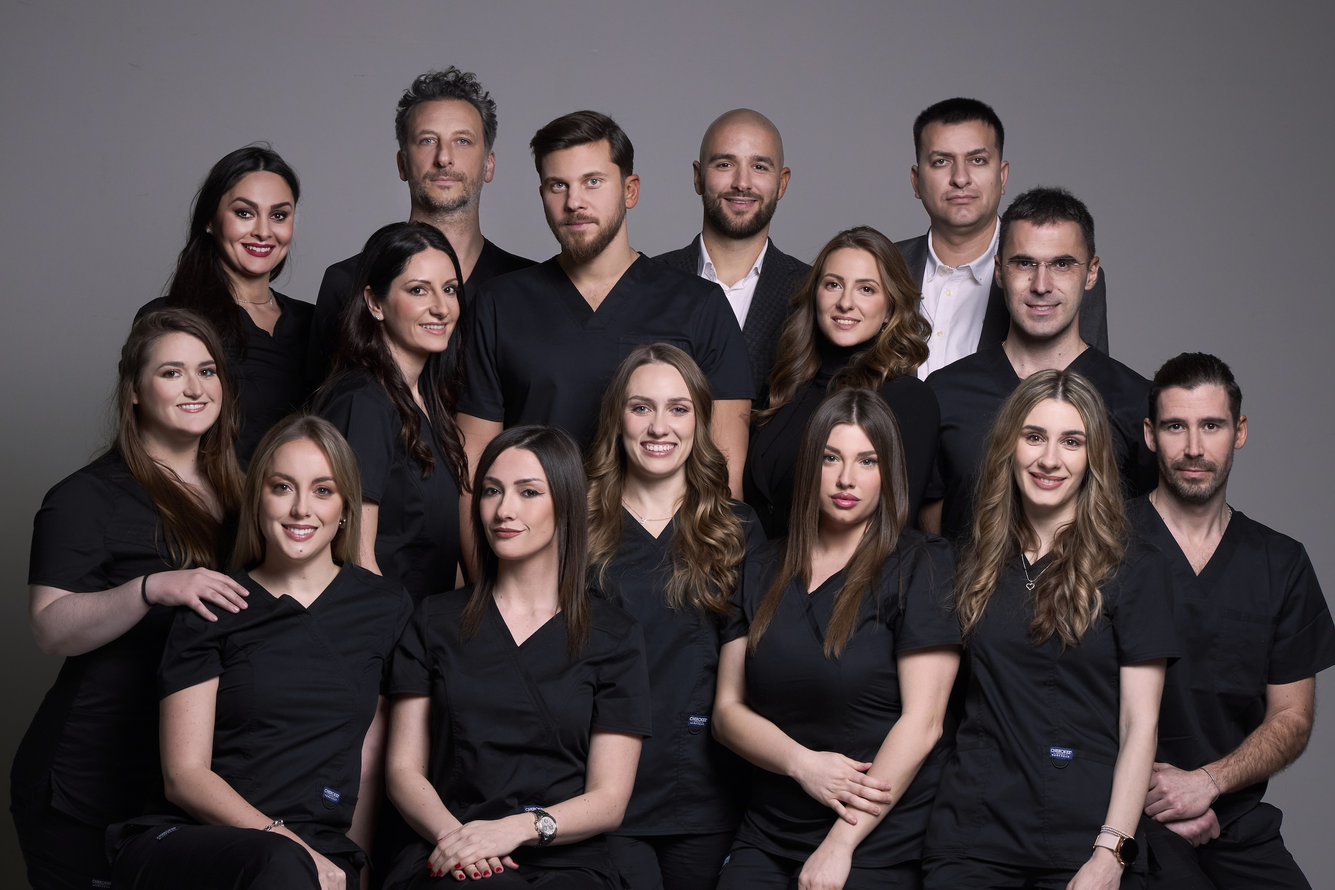
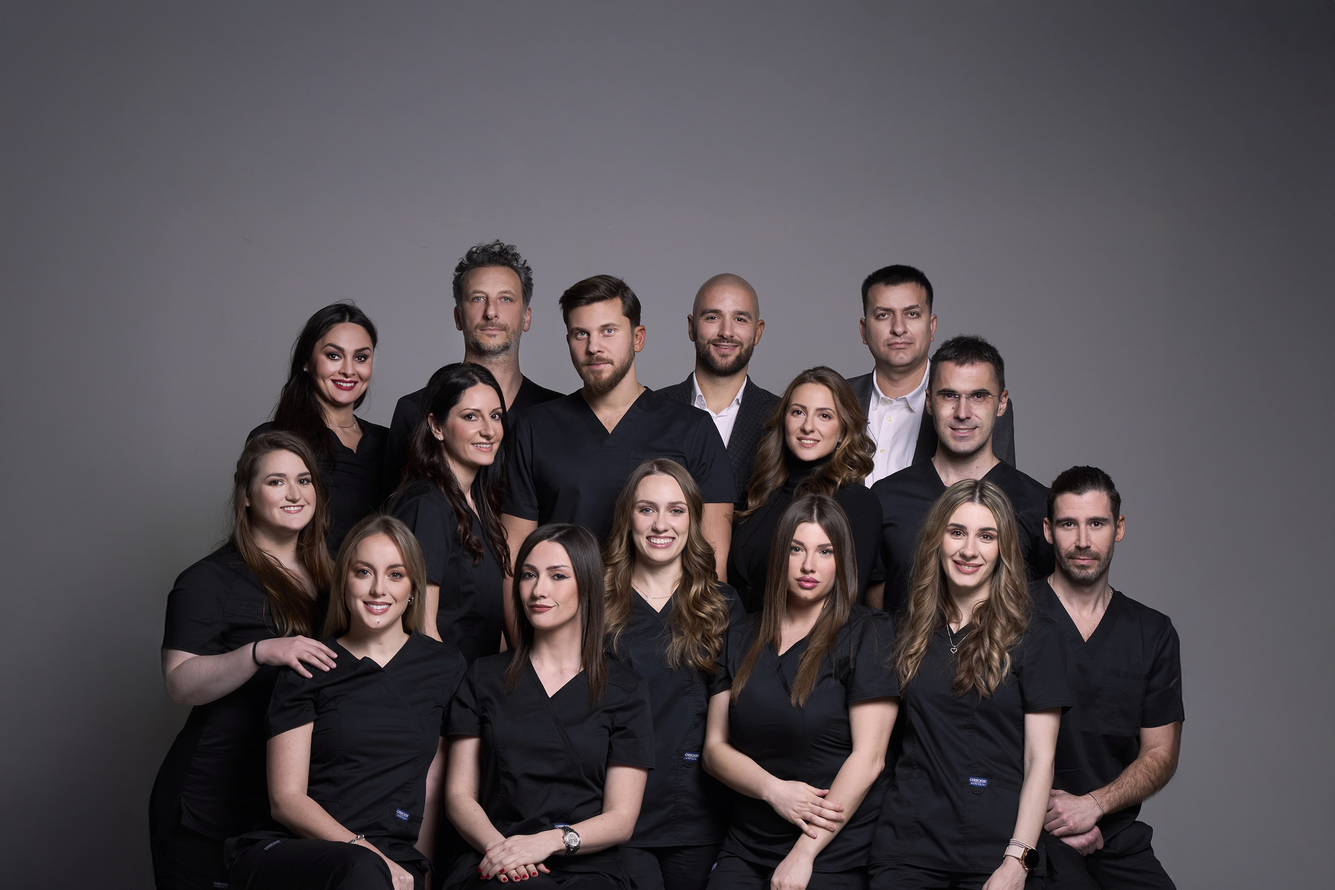
hero fix

diff --git a/src/components/Hero.tsx b/src/components/Hero.tsx
@@ -4,23 +4,27 @@ import heroImage from '@/../public/hero.jpeg';
 
 const Hero = () => {
   return (
-    <section className='relative w-full h-[60svh] lg:h-[100svh] flex flex-col justify-end pt-0 px-4 sm:px-16 sm:pb-40 lg:px-44 lg:pb-24 text-white before:content-[""] before:absolute before:bottom-0 before:left-1/2 before:-translate-x-1/2 before:w-[110vw] before:h-[calc(100svh+2px)] before:z-10 before:bg-background hero-clip-path overflow-hidden'>
-      <Image
-        src={heroImage}
-        alt='Grand Dental klinika'
-        fill
-        sizes='100vw'
-        quality={85}
-        priority
-        className='object-contain lg:object-cover object-top lg:object-[100%_30%] lg:height-750:object-[100%_20%] aspect-[828/552] lg:aspect-auto max-w-full'
-      />
-      <h1 className='text-5xl lg:text-6xl z-10'>Dobrodošli u Grand Dental</h1>
-      <h4 className='mt-4 text-2xl z-10'>
-        Naša misija je da vam stvorimo holivudski osmeh, bez filtera.
-      </h4>
-      <Button href='/kontakt' className='mt-8 z-10'>
-        Zakažite pregled
-      </Button>
+    <section className='relative w-full lg:h-[100svh] sm:flex flex-col justify-end lg:px-44 lg:pb-12 3xl:pb-24 text-white before:hidden lg:before:block before:content-[""] before:absolute before:bottom-0 before:left-1/2 before:-translate-x-1/2 before:w-[110vw] before:h-[calc(100svh+2px)] before:z-10 before:bg-background hero-clip-path overflow-hidden'>
+      <div className='relative lg:absolute inset-0 w-full h-[calc(552/828*100vw)] lg:h-full'>
+        <Image
+          src={heroImage}
+          alt='Grand Dental klinika'
+          fill
+          sizes='100vw'
+          quality={85}
+          priority
+          className='object-cover object-[center_-20px] sm:object-[center_-50px] lg:object-[center_100%] aspect-[828/552] lg:aspect-auto max-w-full'
+        />
+      </div>
+      <div className='px-4 sm:px-8 lg:px-0 z-10'>
+        <h1 className='text-4xl sm:text-5xl lg:text-6xl'>Dobrodošli u Grand Dental</h1>
+        <h4 className='mt-3 sm:mt-4 text-xl sm:text-2xl'>
+          Naša misija je da vam stvorimo holivudski osmeh, bez filtera.
+        </h4>
+        <Button href='/kontakt' className='mt-6 lg:mt-8'>
+          Zakažite pregled
+        </Button>
+      </div>
     </section>
   );
 };

diff --git a/tailwind.config.ts b/tailwind.config.ts
@@ -13,6 +13,7 @@ const config: Config = {
       },
       screens: {
         '2xl': '1500px',
+        '3xl': '1700px',
         'max-w-8xl': '1440px',
         'height-750': {
           raw: '(max-height: 750px)',
